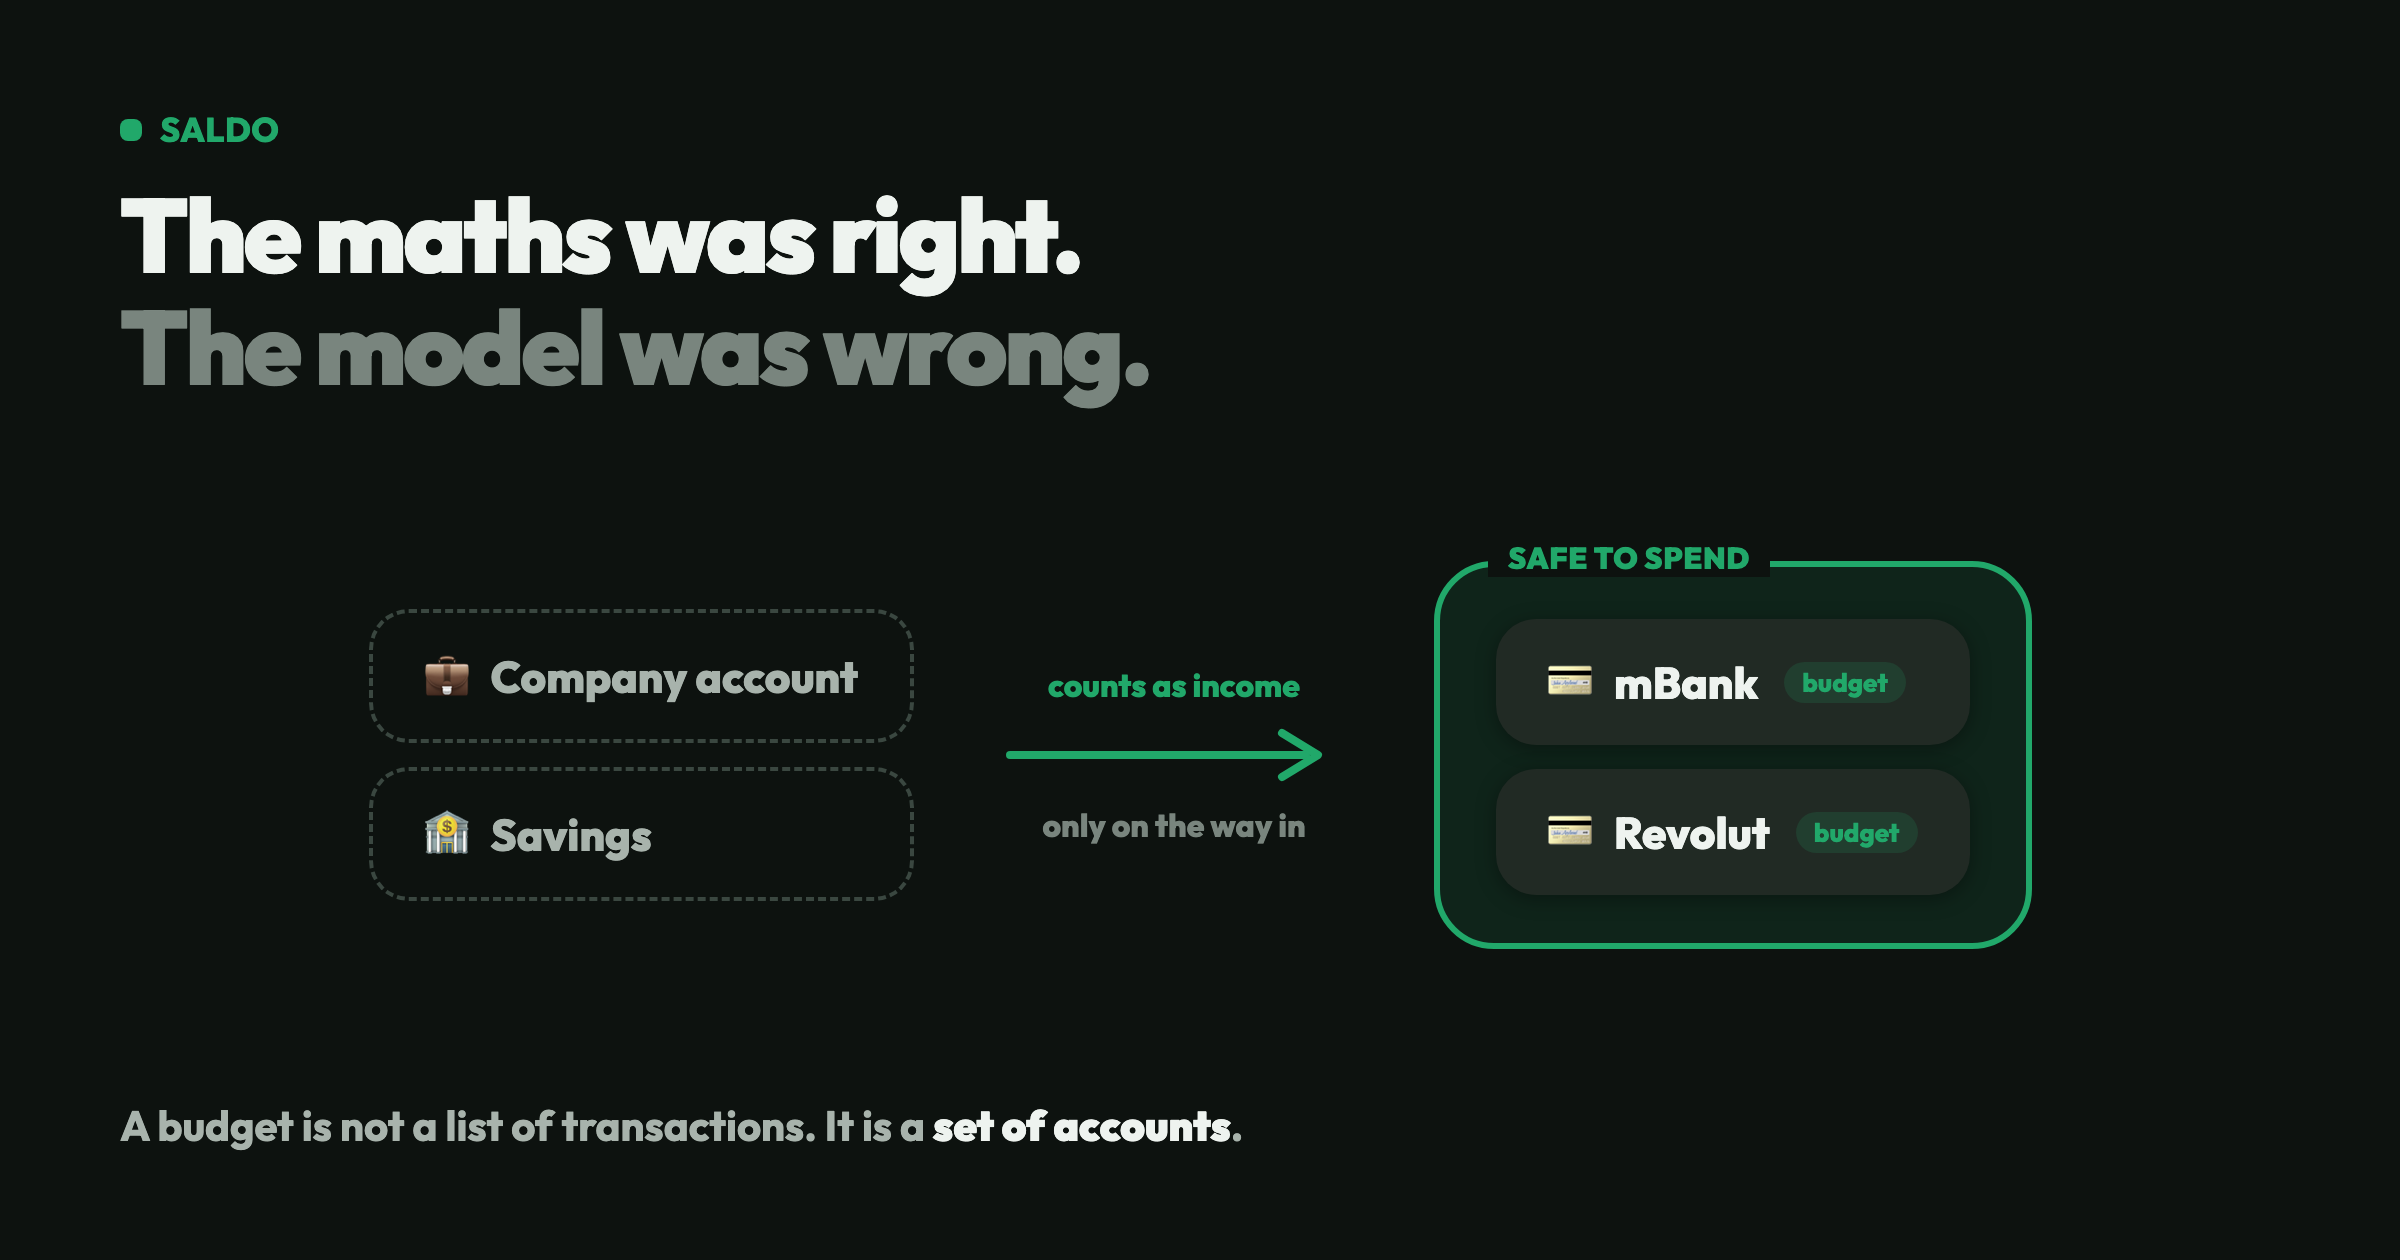
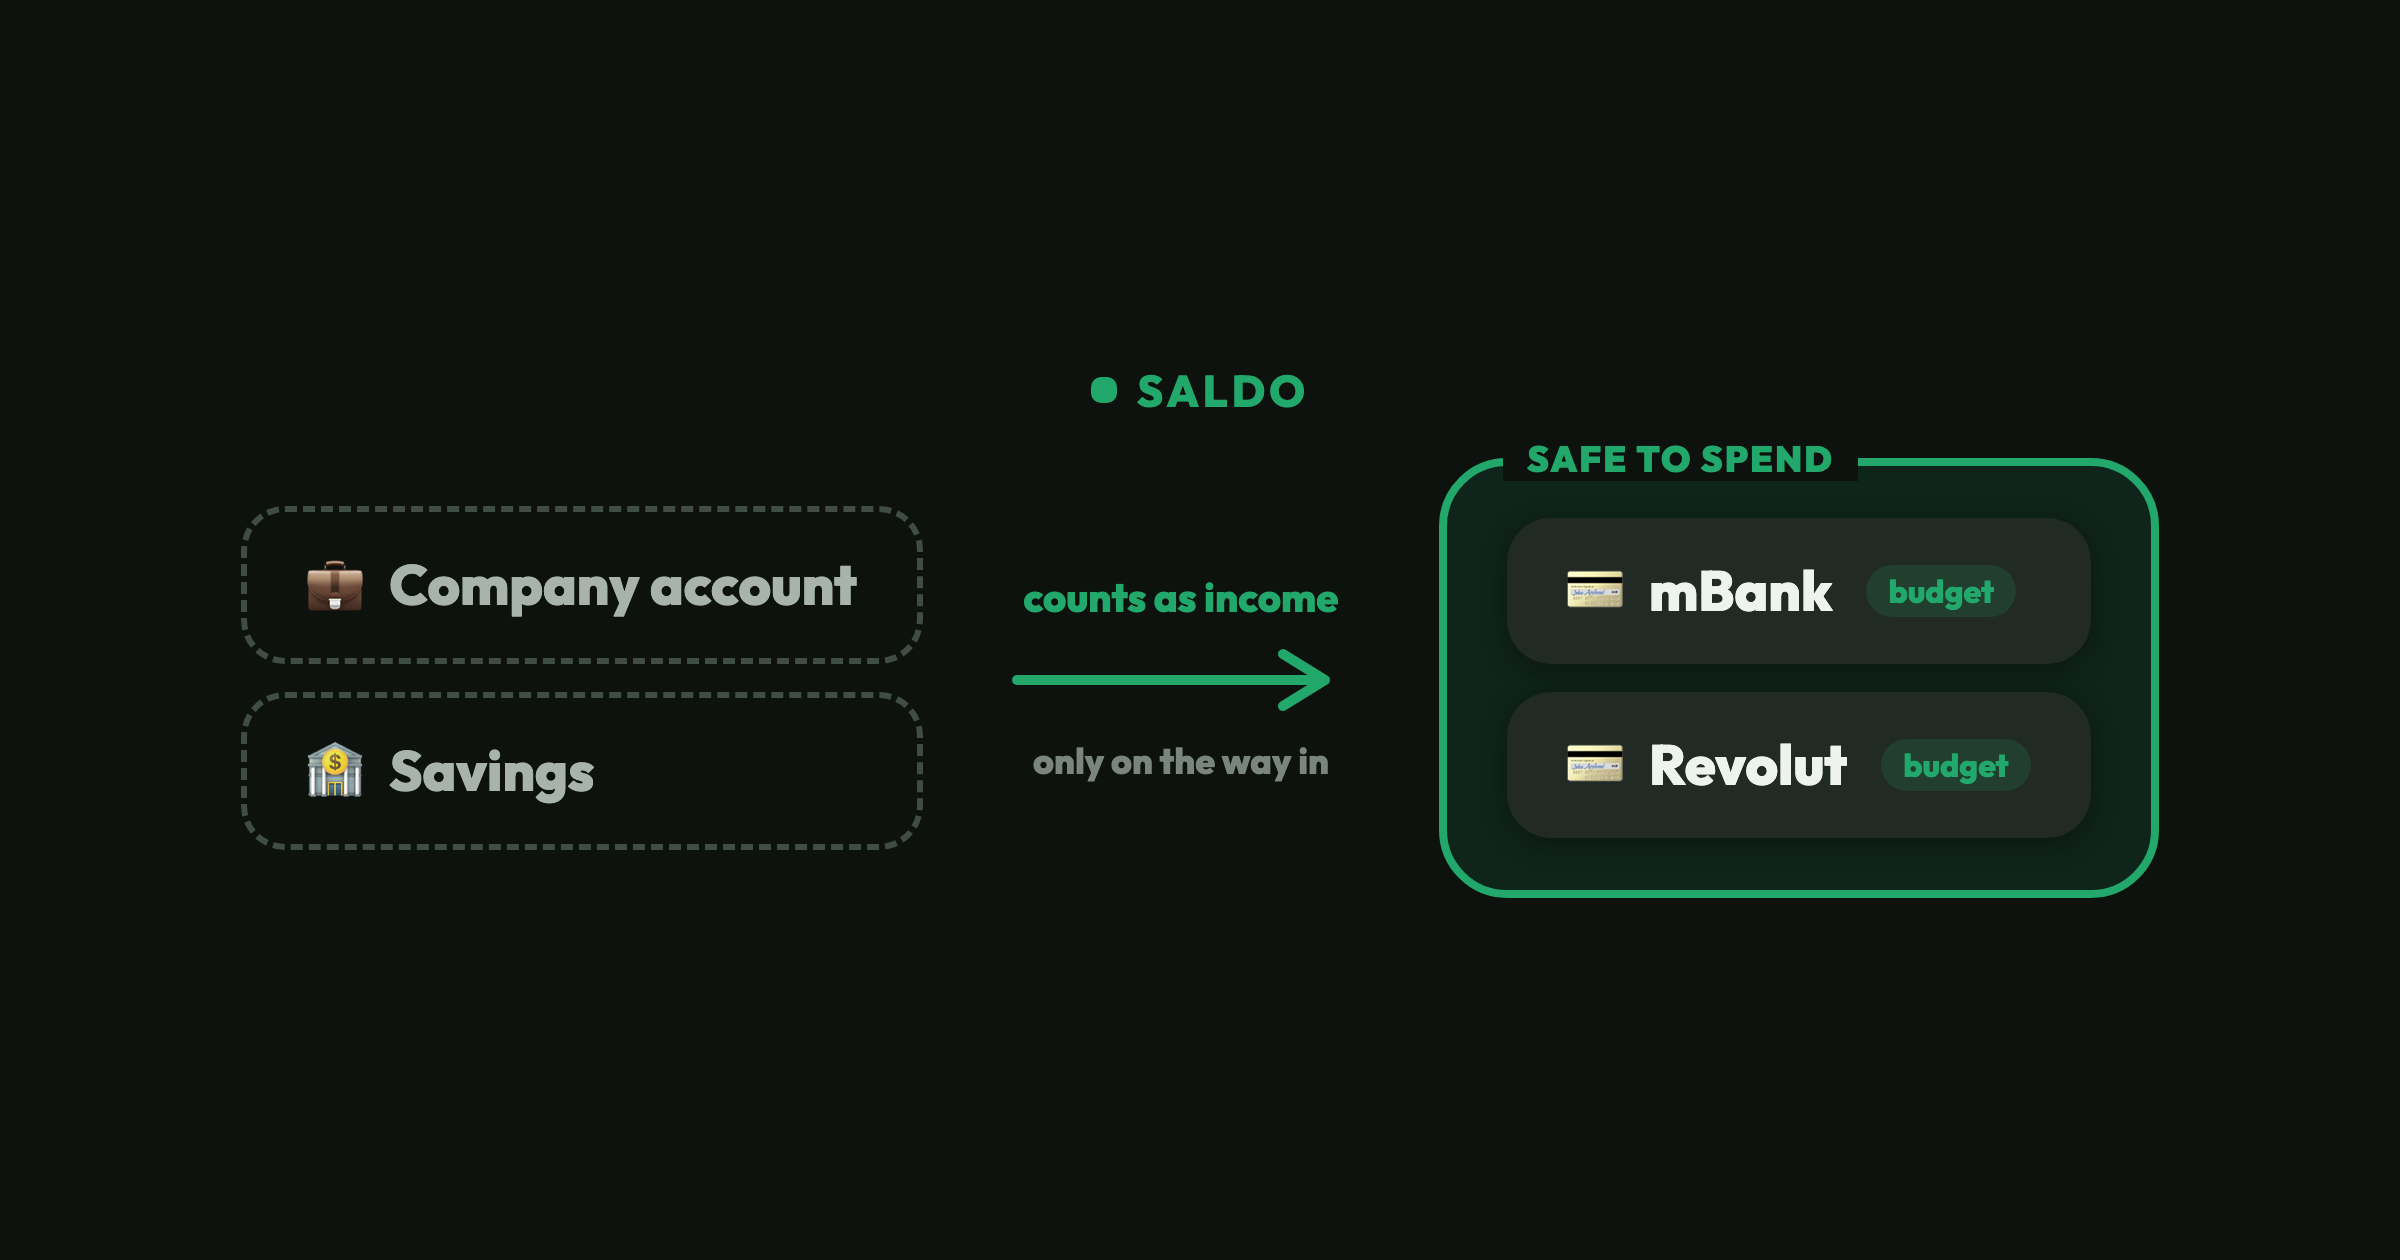
New post: the maths was right, the model was wrong
A follow-up to the Saldo post from August: a month of fixes that all
came down to the app having the wrong model of where my money lives.

Illustrations are built from the app's own design tokens with invented
figures, sources in blog-shots/.

diff --git a/blog-shots/featured.html b/blog-shots/featured.html
@@ -4,46 +4,48 @@
 <link rel="preconnect" href="https://fonts.googleapis.com">
 <link href="https://fonts.googleapis.com/css2?family=Outfit:wght@400;500;600;700;800;900&display=swap" rel="stylesheet">
 <style>
-  /* 1200x630, the standard Open Graph card. Tokens from src/style.css.
-     Add ?dark to the url for the dark variant; both ladders are spelled out
-     here rather than guessed, so the card cannot drift from the app. */
+  /* 1200x630 for Open Graph, but the blog's own cards crop it to a CENTRE BAND:
+     roughly 4.35:1 on the featured card and 2.8:1 on the two-column cards. So
+     everything that matters lives inside the middle ~260px, vertically centred,
+     and nothing sits near the top or bottom edge where it would be sliced.
+     No headline either: the card template already prints the title underneath,
+     so the picture only has to carry the idea.
+     Tokens from the app's src/style.css. Add ?dark for the dark variant. */
   .light {
     --page:#f1f4f2; --card:#ffffff; --ink:#1a211d; --ink2:#55605a; --muted:#8a948e;
-    --accent:#0d9058; --dash:#cdd6d1; --shadow:rgba(18,26,22,.05); --fill:7%;
+    --accent:#0d9058; --dash:#c6d0cb; --shadow:rgba(18,26,22,.06); --fill:7%;
   }
   .dark {
     --page:#0d120f; --card:#212a24; --ink:#eef3ef; --ink2:#a8b3ac; --muted:#79857e;
-    --accent:#21a86a; --dash:#3a4740; --shadow:rgba(0,0,0,.35); --fill:12%;
+    --accent:#21a86a; --dash:#3f4d45; --shadow:rgba(0,0,0,.35); --fill:12%;
   }
   * { margin:0; padding:0; box-sizing:border-box; }
   body { font-family:'Outfit', system-ui, sans-serif; background:var(--page); color:var(--ink); }
-  .card { width:1200px; height:630px; padding:54px 60px; display:flex; flex-direction:column; position:relative; overflow:hidden; }
-  .brand { display:flex; align-items:center; gap:9px; font-size:17px; font-weight:800; color:var(--accent); letter-spacing:.2px; }
-  .brand .dot { width:11px; height:11px; border-radius:4px; background:var(--accent); }
-  h1 { font-size:52px; font-weight:900; letter-spacing:-1.6px; line-height:1.08; margin-top:14px; max-width:720px; }
-  h1 .faint { color:var(--muted); }
-  .stage { flex:1; display:flex; align-items:center; justify-content:center; gap:46px; margin-top:22px; }
-  .col { display:grid; gap:12px; }
-  .outside .chip { background:transparent; border:2px dashed var(--dash); color:var(--ink2); box-shadow:none; }
-  .chip { display:flex; align-items:center; gap:11px; background:var(--card); border-radius:20px;
-    padding:17px 26px; font-size:22px; font-weight:800; box-shadow:0 2px 10px var(--shadow); white-space:nowrap; }
-  .chip .em { font-size:22px; }
-  .pill { font-size:13px; font-weight:800; border-radius:999px; padding:2px 9px; margin-left:2px;
+  .card { width:1200px; height:630px; display:flex; flex-direction:column;
+    align-items:center; justify-content:center; gap:20px; overflow:hidden; }
+  .brand { display:flex; align-items:center; gap:10px; font-size:22px; font-weight:800;
+    color:var(--accent); letter-spacing:2px; }
+  .brand .dot { width:13px; height:13px; border-radius:5px; background:var(--accent); }
+  .stage { display:flex; align-items:center; gap:44px; }
+  .col { display:grid; gap:14px; }
+  .outside .chip { background:transparent; border:3px dashed var(--dash); color:var(--ink2); box-shadow:none; }
+  .chip { display:flex; align-items:center; gap:13px; background:var(--card); border-radius:22px;
+    padding:18px 30px; font-size:28px; font-weight:800; box-shadow:0 3px 14px var(--shadow); white-space:nowrap; }
+  .chip .em { font-size:28px; }
+  .pill { font-size:16px; font-weight:800; border-radius:999px; padding:3px 11px; margin-left:4px;
     background:color-mix(in srgb, var(--accent) 16%, var(--card)); color:var(--accent); }
-  .cross { display:flex; flex-direction:column; align-items:center; gap:8px; }
-  .cross .label { font-size:16px; font-weight:800; color:var(--accent); white-space:nowrap; }
+  .cross { display:flex; flex-direction:column; align-items:center; gap:10px; }
+  .cross .label { font-size:20px; font-weight:800; color:var(--accent); white-space:nowrap; }
+  .cross .label.quiet { color:var(--muted); font-size:18px; }
   .cross svg path { stroke:var(--accent); }
-  .budget { border:3px solid var(--accent); border-radius:30px; padding:26px 28px 24px;
+  .budget { border:4px solid var(--accent); border-radius:34px; padding:26px 30px;
     background:color-mix(in srgb, var(--accent) var(--fill), var(--page)); position:relative; }
-  .budget .cap { position:absolute; top:-14px; left:24px; background:var(--page); padding:0 10px;
-    font-size:15px; font-weight:900; color:var(--accent); letter-spacing:.3px; }
-  .foot { font-size:21px; font-weight:700; color:var(--ink2); margin-top:18px; }
-  .foot b { color:var(--ink); font-weight:900; }
+  .budget .cap { position:absolute; top:-15px; left:28px; background:var(--page); padding:0 12px;
+    font-size:18px; font-weight:900; color:var(--accent); letter-spacing:1px; }
 </style>
 <body class="light">
 <div class="card">
   <div class="brand"><span class="dot"></span>SALDO</div>
-  <h1>The maths was right.<br><span class="faint">The model was wrong.</span></h1>
   <div class="stage">
     <div class="col outside">
       <div class="chip"><span class="em">💼</span>Company account</div>
@@ -51,11 +53,11 @@
     </div>
     <div class="cross">
       <div class="label">counts as income</div>
-      <svg width="168" height="34" viewBox="0 0 168 34" fill="none">
-        <path d="M2 17 H150" stroke-width="4" stroke-linecap="round"/>
-        <path d="M138 6 L156 17 L138 28" stroke-width="4" stroke-linecap="round" stroke-linejoin="round" fill="none"/>
+      <svg width="170" height="38" viewBox="0 0 170 38" fill="none">
+        <path d="M3 19 H150" stroke-width="5" stroke-linecap="round"/>
+        <path d="M136 6 L157 19 L136 32" stroke-width="5" stroke-linecap="round" stroke-linejoin="round" fill="none"/>
       </svg>
-      <div class="label" style="color:var(--muted)">only on the way in</div>
+      <div class="label quiet">only on the way in</div>
     </div>
     <div class="budget">
       <span class="cap">SAFE TO SPEND</span>
@@ -65,7 +67,6 @@
       </div>
     </div>
   </div>
-  <div class="foot">A budget is not a list of transactions. It is a <b>set of accounts</b>.</div>
 </div>
 <script>
   if (location.search.includes('dark')) document.body.className = 'dark'

diff --git a/src/content/blog/saldo-the-model-was-wrong.md b/src/content/blog/saldo-the-model-was-wrong.md
@@ -36,6 +36,8 @@ Only inbound crossings count. Money going the other way, out to a savings accoun
 
 ![The home screen, with the budget boundary visible: the income line shows how much of it crossed in, and each account says whether it counts](/blog/images/saldo-home-budget-boundary.png)
 
+All the numbers in these screenshots are invented, by the way. I'm happy to show you the app, slightly less happy to show you my bank balance.
+
 Showing the boundary in the interface mattered more than I expected. A little green `budget` tag next to the accounts that feed safe to spend turns an invisible rule into something you can check at a glance, and it's the thing that would have saved me the original confusion.
 
 ## Two questions wearing one flag
